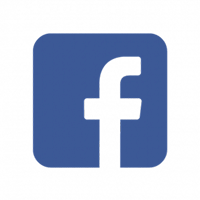
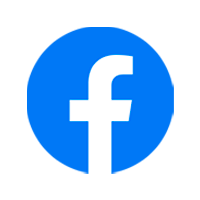
2nd commit

diff --git a/index.html b/index.html
@@ -2,9 +2,9 @@
 <html lang="en">
 	<head>
 		<meta charset="UTF-8" />
-		<link rel="icon" type="image/svg+xml" href="/vite.svg" />
+		<link rel="icon" type="image/svg+xml" href="/profile2.svg" />
 		<meta name="viewport" content="width=device-width, initial-scale=1.0" />
-		<title>Vite + React</title>
+		<title>Red Cultura Ambientalista</title>
 		<script
 			src="https://kit.fontawesome.com/239ecd7882.js"
 			crossorigin="anonymous"

diff --git a/src/data.js b/src/data.js
@@ -19,7 +19,7 @@ export const social = [
 		url: 'https://www.facebook.com/redculturambientalista',
 		image: facebook,
 		name: 'facebook',
-		color: '#3b5999',
+		color: '#1877f2',
 	},
 	{
 		id: 3,
